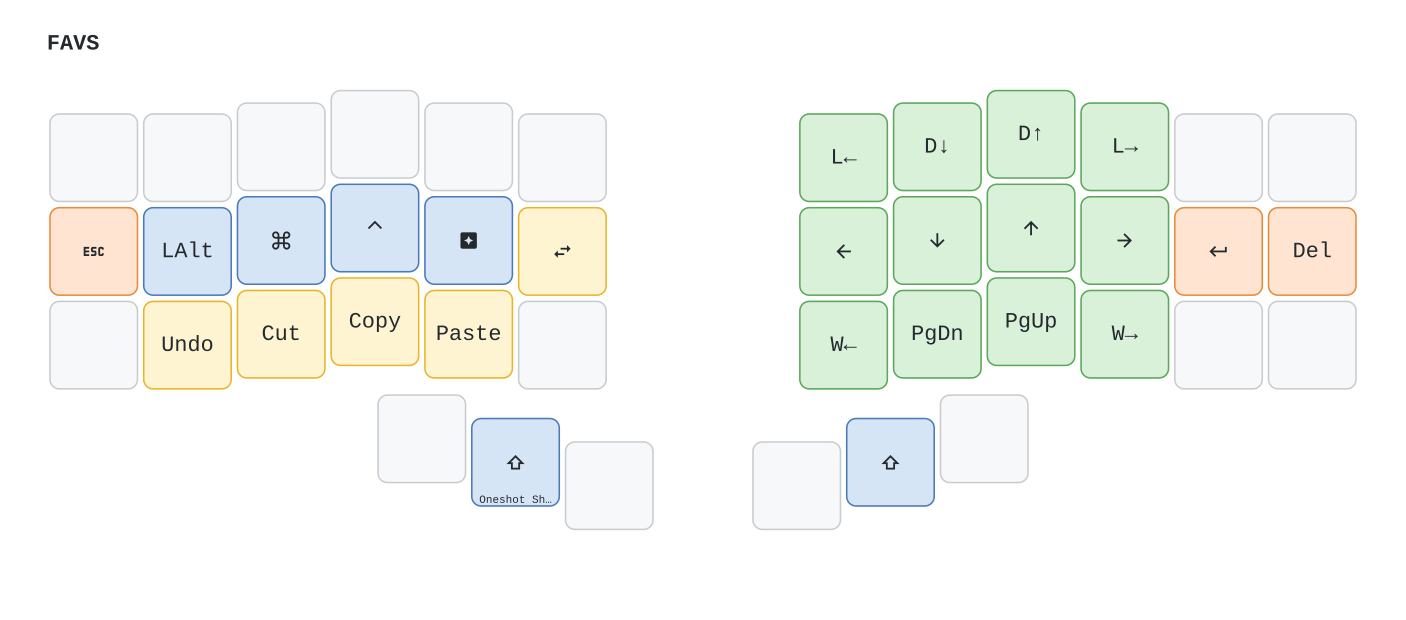
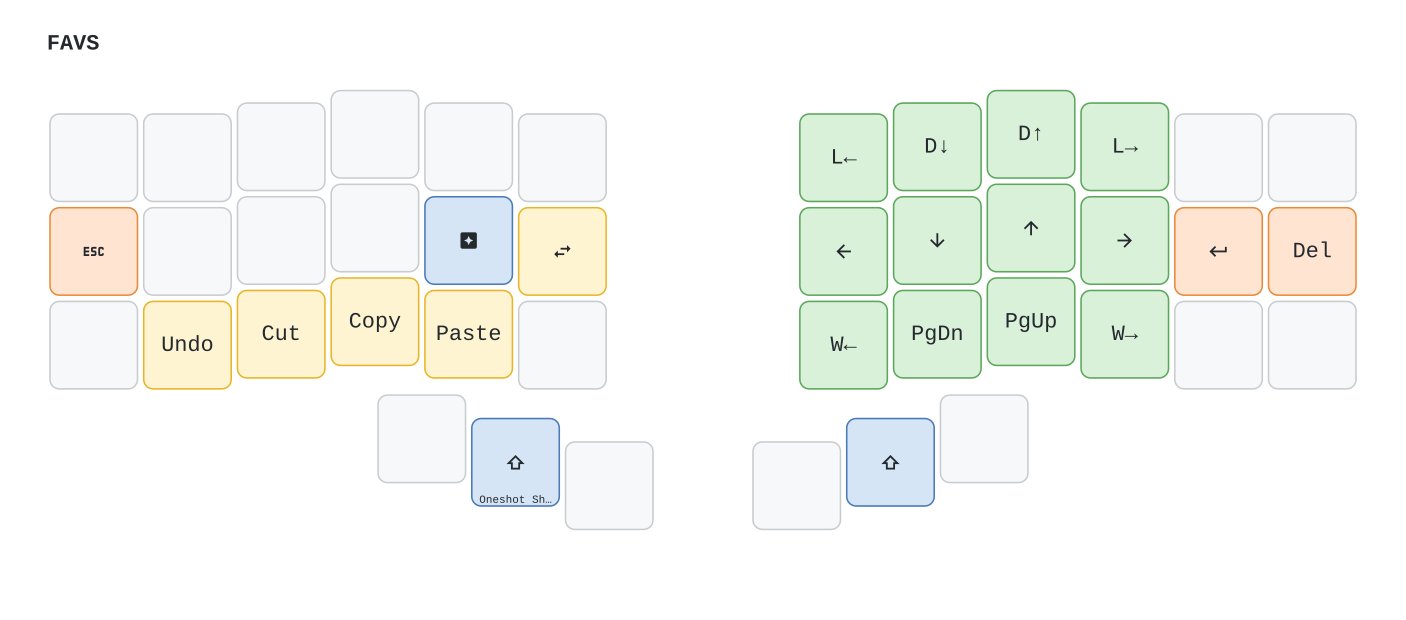
Introduces chordal hold

Changed region(s): [[0.0917, 0.2758, 0.3058, 0.4903]]

diff --git a/keyboards/6x3_3/keymaps/crafted/keymap.c b/keyboards/6x3_3/keymaps/crafted/keymap.c
@@ -75,10 +75,10 @@ enum combo_events {
 };
 
 const uint16_t PROGMEM boot_combo[] = {KC_TAB, KC_BSPC, COMBO_END};  // Tab + Backspace
-const uint16_t PROGMEM switch_os[] = {_04_, _28_, COMBO_END};  // Left hand: toggle OS and mod morph
-const uint16_t PROGMEM print_os[] = {_03_, _28_, _04_, COMBO_END};  // Left hand: print OS name
-const uint16_t PROGMEM switch_layout[] = {_07_, _31_, COMBO_END};  // Right hand mirror: toggle default layout
-const uint16_t PROGMEM print_layout[] = {_08_, _31_, _07_, COMBO_END};  // Right hand mirror: print layout name
+const uint16_t PROGMEM switch_os[] = {_04_, LCTL_T(_28_), COMBO_END};  // Left hand: toggle OS and mod morph
+const uint16_t PROGMEM print_os[] = {_03_, LCTL_T(_28_), _04_, COMBO_END};  // Left hand: print OS name
+const uint16_t PROGMEM switch_layout[] = {_07_, RCTL_T(_31_), COMBO_END};  // Right hand mirror: toggle default layout
+const uint16_t PROGMEM print_layout[] = {_08_, RCTL_T(_31_), _07_, COMBO_END};  // Right hand mirror: print layout name
 
 combo_t key_combos[] = {
     COMBO_ACTION(switch_os),     // COMBO_SWITCH_OS
@@ -107,8 +107,7 @@ static const uint16_t wc_keycodes[][4] = {
 const key_override_t* key_overrides[] = {
 #ifdef XC_ALT_BASE_SYMBOLS
     ALT_SYMBOL_OVERRIDE(AS_QUOT, KC_QUOT, KC_DQUO), // ' → "
-    ALT_SYMBOL_OVERRIDE(AS_COMM, KC_COMM, KC_QUES), // , → ?
-    ALT_SYMBOL_OVERRIDE(AS_DOT,  KC_DOT,  KC_EXLM), // . → !
+    // AS_COMM (,→?) and AS_DOT (.→!) handled in process_record_user for mod-tap keys
     ALT_SYMBOL_OVERRIDE(AS_MINS, KC_MINS, KC_SLSH), // - → /
     ALT_SYMBOL_OVERRIDE(AS_UNDS, KC_UNDS, KC_PIPE), // _ → |
 #endif
@@ -132,6 +131,15 @@ const key_override_t* key_overrides[] = {
     NULL
 };
 
+// Chordal Hold handedness: 'L'=left, 'R'=right, '*'=exempt (thumbs)
+const char chordal_hold_layout[MATRIX_ROWS][MATRIX_COLS] PROGMEM =
+    LAYOUT_split_3x6_3(
+        'L', 'L', 'L', 'L', 'L', 'L',  'R', 'R', 'R', 'R', 'R', 'R',
+        'L', 'L', 'L', 'L', 'L', 'L',  'R', 'R', 'R', 'R', 'R', 'R',
+        'L', 'L', 'L', 'L', 'L', 'L',  'R', 'R', 'R', 'R', 'R', 'R',
+                       '*', '*', '*',  '*', '*', '*'
+    );
+
 const uint16_t PROGMEM keymaps[][MATRIX_ROWS][MATRIX_COLS] = {
      /*
       * ┌───┬───┬───┬───┬───┬───┐       ┌───┬───┬───┬───┬───┬───┐
@@ -139,13 +147,15 @@ const uint16_t PROGMEM keymaps[][MATRIX_ROWS][MATRIX_COLS] = {
       * ├───┼───┼───┼───┼───┼───┤       ├───┼───┼───┼───┼───┼───┤
       * │Tab│ A │ S │ D │ F │ G │       │ H │ J │ K │ L │ ; │Bsp│
       * ├───┼───┼───┼───┼───┼───┤       ├───┼───┼───┼───┼───┼───┤
-      * │   │ Z │ X │ C[B]V │[B]│       │[N]│ M[N], │ . │ / │   │
+      * │   │ Z │X/A│C/G│V/C│[B]│       │[N]│M/C│,/G│./A│ / │   │
       * └───┴───┴───┴───┴───┴───┘       └───┴───┴───┴───┴───┴───┘
       *               ┌───┐                   ┌───┐
       *               │   ├───┐           ┌───┤   │
       *               └───┤S/L├───┐   ┌───┤SPC├───┘
       *                   └───┤FAV│   │SYM├───┘       FAV=FAVS layer, SYM=SYMBOLS layer, S/L=Shift/Leader
       *                       └───┘   └───┘
+      * Bottom-row mod-taps: X/A=Alt, C/G=GUI, V/C=Ctrl | M/C=Ctrl, ,/G=GUI, ./A=Alt
+      * Chordal Hold: opposite-hands rule prevents same-hand roll misfires
       * Weak corners: [Q] [P] [B] [N] - only when XC_WEAK_CORNERS enabled, else actual keys
       * Combos: W+E→Q I+O→P C+V→B M+,→N (when weak corners on), Tab+Bsp→QK_BOOT
       * S/L=SFT_LEAD: Hold for Shift, Tap for Leader
@@ -153,7 +163,7 @@ const uint16_t PROGMEM keymaps[][MATRIX_ROWS][MATRIX_COLS] = {
     [BASE] = LAYOUT_split_3x6_3(
         KC_NO,    _01_,    _02_,    _03_,    _04_,    _05_,                               _06_,    _07_,    _08_,    _09_,    _10_,    KC_NO,
         KC_TAB,  _13_,    _14_,    _15_,    _16_,    _17_,                               _18_,    _19_,    _20_,    _21_,    _22_,    KC_BSPC,
-        KC_NO,   _25_,    _26_,    _27_,    _28_,    _29_,                               _30_,    _31_,    _32_,    _33_,    _34_,    KC_NO,
+        KC_NO,   _25_,    LALT_T(_26_), LGUI_T(_27_), LCTL_T(_28_), _29_,               _30_,    RCTL_T(_31_), RGUI_T(_32_KC), RALT_T(_33_KC), _34_, KC_NO,
                                             KC_NO,   SFT_LEAD, MO(FAVS),               MO(SYMBOLS), KC_SPC,  KC_NO
     ),
      /*
@@ -165,15 +175,15 @@ const uint16_t PROGMEM keymaps[][MATRIX_ROWS][MATRIX_COLS] = {
     [BASE_ALT] = LAYOUT_split_3x6_3(
         KC_NO,   _01_,    _02_,    _03_,    _04_,    _05_,                               _06_,    _07_,    _08_,    _09_,    _10_,    KC_NO,
         KC_TAB,  _13_,    _14_,    _15_,    _16_,    _17_,                               _18_,    _19_,    _20_,    _21_,    _22_,    KC_BSPC,
-        KC_NO,   _25_,    _26_,    _27_,    _28_,    _29_,                               _30_,    _31_,    _32_,    _33_,    _34_,    KC_NO,
+        KC_NO,   _25_,    LALT_T(_26_), LGUI_T(_27_), LCTL_T(_28_), _29_,               _30_,    RCTL_T(_31_), RGUI_T(_32_KC), RALT_T(_33_KC), _34_, KC_NO,
                                             KC_NO,   SFT_LEAD, MO(FAVS),               MO(SYMBOLS), KC_SPC,  KC_NO
     ),
      /*
-      * FAVS Layer (Layer 2) - Favorite shortcuts, modifiers and navigation
+      * FAVS Layer (Layer 2) - Favorite shortcuts and navigation
       * ┌───┬───┬───┬───┬───┬───┐       ┌───┬───┬───┬───┬───┬───┐
       * │   │   │   │   │   │   │       │L← │D↓ │D↑ │L→ │   │   │
       * ├───┼───┼───┼───┼───┼───┤       ├───┼───┼───┼───┼───┼───┤
-      * │Esc│Alt│Gui│Ctl│G/C│SWn│       │ ← │ ↓ │ ↑ │ → │Ent│Del│
+      * │Esc│ ▽ │ ▽ │ ▽ │G/C│SWn│       │ ← │ ↓ │ ↑ │ → │Ent│Del│
       * ├───┼───┼───┼───┼───┼───┤       ├───┼───┼───┼───┼───┼───┤
       * │   │Udo│Cut│Cpy│Pst│   │       │W← │PgD│PgU│W→ │   │   │
       * └───┴───┴───┴───┴───┴───┘       └───┴───┴───┴───┴───┴───┘
@@ -182,14 +192,14 @@ const uint16_t PROGMEM keymaps[][MATRIX_ROWS][MATRIX_COLS] = {
       *               └───┤OSf├───┐   ┌───┤Sft├───┘
       *                   └───┤   │   │   ├───┘
       *                       └───┘   └───┘
+      * ▽=transparent (BASE layer keys pass through)
       * G/C=MM_GUICTRL (morphing GUI/Ctrl), SWn=Switch Window, OSf=Oneshot Shift
       * L←=Line Begin, L→=Line End, D↑=Doc Begin, D↓=Doc End
       * W←=Word Left, W→=Word Right
-      * Alt/Gui/Ctl are oneshot modifiers
       */
     [FAVS] = LAYOUT_split_3x6_3(
         KC_NO,   KC_NO,   KC_NO,   KC_NO,   KC_NO,   KC_NO,                              SK_LINEBEG, SK_DOCEND, SK_DOCBEG, SK_LINEEND, KC_NO,   KC_NO,
-        KC_ESC,  OS_ALT,  OS_GUI,  OS_CTRL, MM_GUICTRL, SW_WIN,                          KC_LEFT, KC_DOWN, KC_UP,   KC_RGHT, KC_ENT,  KC_DEL,
+        KC_ESC,  KC_TRNS, KC_TRNS, KC_TRNS, MM_GUICTRL, SW_WIN,                          KC_LEFT, KC_DOWN, KC_UP,   KC_RGHT, KC_ENT,  KC_DEL,
         KC_NO,   SK_UNDO, SK_CUT,  SK_COPY, SK_PSTE, KC_NO,                              SK_WORDPRV, KC_PGDN, KC_PGUP, SK_WORDNXT, KC_NO,   KC_NO,
                                             KC_NO,   OS_SHFT, KC_NO,                  KC_NO,   KC_LSFT, KC_NO
     ),
@@ -223,17 +233,11 @@ const uint16_t PROGMEM keymaps[][MATRIX_ROWS][MATRIX_COLS] = {
 static bool sft_lead_held = false;
 static uint16_t sft_lead_timer = 0;
 
-// Oneshot modifier states
+// Oneshot modifier states (only shift remains; Alt/Ctrl/GUI now on bottom-row mod-taps)
 oneshot_state os_shft_state = os_up_unqueued;
-oneshot_state os_ctrl_state = os_up_unqueued;
-oneshot_state os_alt_state = os_up_unqueued;
-oneshot_state os_gui_state = os_up_unqueued;
 
 // Oneshot modifier timers (for auto-cancel after timeout)
 static uint16_t os_shft_timer = 0;
-static uint16_t os_ctrl_timer = 0;
-static uint16_t os_alt_timer  = 0;
-static uint16_t os_gui_timer  = 0;
 
 // Swapper state
 static bool sw_win_active = false;
@@ -252,11 +256,8 @@ bool process_record_user(uint16_t keycode, keyrecord_t *record) {
     // Update swapper
     update_swapper(&sw_win_active, KC_LGUI, KC_TAB, SW_WIN, keycode, record);
 
-    // Update oneshot modifiers
+    // Update oneshot shift (Alt/Ctrl/GUI now on bottom-row mod-taps with Chordal Hold)
     update_oneshot(&os_shft_state, KC_LSFT, OS_SHFT, keycode, record, &os_shft_timer);
-    update_oneshot(&os_ctrl_state, KC_LCTL, OS_CTRL, keycode, record, &os_ctrl_timer);
-    update_oneshot(&os_alt_state, KC_LALT, OS_ALT, keycode, record, &os_alt_timer);
-    update_oneshot(&os_gui_state, KC_LGUI, OS_GUI, keycode, record, &os_gui_timer);
 
     // Update oneshot morphing modifier
     update_mod_morph_oneshot(MM_GUICTRL, keycode, record);
@@ -276,6 +277,23 @@ bool process_record_user(uint16_t keycode, keyrecord_t *record) {
                 sft_lead_held = false;
             }
             return false;
+
+#ifdef XC_ALT_BASE_SYMBOLS
+        // Alt-symbol shifted behavior for mod-tap keys (positions 32-33)
+        // Mod-tap uses basic keycodes; custom shift handled here instead of key overrides
+        case RGUI_T(KC_COMM):  // , → ? when shifted
+        case RALT_T(KC_DOT):   // . → ! when shifted
+            if (record->tap.count && record->event.pressed) {
+                uint8_t mods = get_mods() | get_oneshot_mods();
+                if (mods & MOD_MASK_SHIFT) {
+                    unregister_mods(MOD_MASK_SHIFT);
+                    tap_code16(keycode == RGUI_T(KC_COMM) ? KC_QUES : KC_EXLM);
+                    register_mods(mods & MOD_MASK_SHIFT);
+                    return false;
+                }
+            }
+            break;
+#endif
     }
     return true;
 }
@@ -294,9 +312,6 @@ bool is_oneshot_cancel_key(uint16_t keycode) {
 bool is_oneshot_ignored_key(uint16_t keycode) {
     switch (keycode) {
         case OS_SHFT:
-        case OS_CTRL:
-        case OS_ALT:
-        case OS_GUI:
         case MM_GUICTRL:
         case KC_LSFT:
         case KC_RSFT:
@@ -376,9 +391,6 @@ void process_combo_event(uint16_t combo_index, bool pressed) {
 #if ONESHOT_MOD_TIMEOUT > 0
 void matrix_scan_user(void) {
     check_oneshot_timeout(&os_shft_state, KC_LSFT, &os_shft_timer);
-    check_oneshot_timeout(&os_ctrl_state, KC_LCTL, &os_ctrl_timer);
-    check_oneshot_timeout(&os_alt_state, KC_LALT, &os_alt_timer);
-    check_oneshot_timeout(&os_gui_state, KC_LGUI, &os_gui_timer);
     check_mod_morph_timeout();
 }
 #endif

diff --git a/keyboards/6x3_3/keymaps/crafted/config.h b/keyboards/6x3_3/keymaps/crafted/config.h
@@ -3,15 +3,16 @@
 
 #pragma once
 
-// Callum style mods - faster, more responsive home row mods
+// Tap-hold tuning for bottom-row mod-taps + Chordal Hold
 #undef TAPPING_TERM
-#define TAPPING_TERM 200
+#define TAPPING_TERM 240
 
-// Callum style: IGNORE_MOD_TAP_INTERRUPT is now default behavior in QMK
-// No PERMISSIVE_HOLD - this is the key difference from aggressive settings
+// Chordal Hold: opposite-hands rule for mod-tap keys (QMK Feb 2025)
+#define CHORDAL_HOLD
+#define PERMISSIVE_HOLD
 
-// Per-key hold on other key press for layers only (not for home row mods)
-#define HOLD_ON_OTHER_KEY_PRESS_PER_KEY
+// Flow Tap: disable hold during fast typing bursts (QMK May 2025)
+#define FLOW_TAP_TERM 150
 
 // Callum-style oneshot mod timeout (ms) - auto-cancel queued mods after delay
 #define ONESHOT_MOD_TIMEOUT 2000

diff --git a/keyboards/6x3_3/keymaps/crafted/layouts/focal.h b/keyboards/6x3_3/keymaps/crafted/layouts/focal.h
@@ -18,6 +18,15 @@
     #define _34_ KC_COMM             // , / <
 #endif
 
+// Base keycodes for mod-tap positions (bypass custom alt-symbol keycodes)
+#ifdef XC_ALT_BASE_SYMBOLS
+    #define _32_KC KC_COMM
+    #define _33_KC KC_DOT
+#else
+    #define _32_KC _32_
+    #define _33_KC _33_
+#endif
+
 #ifdef XC_WEAK_CORNERS
     #define WC_OUT_01 KC_B
     #define WC_OUT_10 KC_J

diff --git a/keyboards/6x3_3/keymaps/crafted/layouts/gallium.h b/keyboards/6x3_3/keymaps/crafted/layouts/gallium.h
@@ -18,6 +18,15 @@
     #define _34_ KC_SLSH             // / / ?
 #endif
 
+// Base keycodes for mod-tap positions (bypass custom alt-symbol keycodes)
+#ifdef XC_ALT_BASE_SYMBOLS
+    #define _32_KC KC_COMM
+    #define _33_KC KC_DOT
+#else
+    #define _32_KC _32_
+    #define _33_KC _33_
+#endif
+
 #ifdef XC_WEAK_CORNERS
     #define WC_OUT_01 KC_B
     #define WC_OUT_10 KC_COMM

diff --git a/keyboards/6x3_3/keymaps/crafted/layouts/gallium_east.h b/keyboards/6x3_3/keymaps/crafted/layouts/gallium_east.h
@@ -18,6 +18,15 @@
     #define _34_ KC_SLSH             // / / ?
 #endif
 
+// Base keycodes for mod-tap positions (bypass custom alt-symbol keycodes)
+#ifdef XC_ALT_BASE_SYMBOLS
+    #define _32_KC KC_COMM
+    #define _33_KC KC_DOT
+#else
+    #define _32_KC _32_
+    #define _33_KC _33_
+#endif
+
 #ifdef XC_WEAK_CORNERS
     #define WC_OUT_01 KC_B
     #define WC_OUT_10 KC_QUOT

diff --git a/keyboards/6x3_3/keymaps/crafted/layouts/graphite.h b/keyboards/6x3_3/keymaps/crafted/layouts/graphite.h
@@ -17,6 +17,15 @@
     #define _34_ KC_SLSH             // / / ?
 #endif
 
+// Base keycodes for mod-tap positions (bypass custom alt-symbol keycodes)
+#ifdef XC_ALT_BASE_SYMBOLS
+    #define _32_KC KC_COMM
+    #define _33_KC KC_DOT
+#else
+    #define _32_KC _32_
+    #define _33_KC _33_
+#endif
+
 #ifdef XC_WEAK_CORNERS
     #define WC_OUT_01 KC_B
     #define WC_OUT_10 KC_J

diff --git a/keyboards/6x3_3/keymaps/crafted/layouts/qwerty.h b/keyboards/6x3_3/keymaps/crafted/layouts/qwerty.h
@@ -17,6 +17,15 @@
     #define _34_ KC_SLSH             // / / ?
 #endif
 
+// Base keycodes for mod-tap positions (bypass custom alt-symbol keycodes)
+#ifdef XC_ALT_BASE_SYMBOLS
+    #define _32_KC KC_COMM
+    #define _33_KC KC_DOT
+#else
+    #define _32_KC _32_
+    #define _33_KC _33_
+#endif
+
 #ifdef XC_WEAK_CORNERS
     #define WC_OUT_01 KC_Q
     #define WC_OUT_10 KC_P

diff --git a/keyboards/6x3_3/keymaps/crafted/layouts/radial.h b/keyboards/6x3_3/keymaps/crafted/layouts/radial.h
@@ -16,6 +16,15 @@
     #define _34_ KC_QUOT             // ' / "
 #endif
 
+// Base keycodes for mod-tap positions (bypass custom alt-symbol keycodes)
+#ifdef XC_ALT_BASE_SYMBOLS
+    #define _32_KC KC_COMM
+    #define _33_KC KC_DOT
+#else
+    #define _32_KC _32_
+    #define _33_KC _33_
+#endif
+
 #ifdef XC_WEAK_CORNERS
     #define WC_OUT_01 KC_X
     #define WC_OUT_10 KC_Y

diff --git a/keyboards/6x3_3/keymaps/crafted/feature_layout_switch.h b/keyboards/6x3_3/keymaps/crafted/feature_layout_switch.h
@@ -50,6 +50,10 @@
 #undef _40_
 #undef _41_
 
+// Step 1b: Clear mod-tap base keycode macros
+#undef _32_KC
+#undef _33_KC
+
 // Step 2: Clear WC_OUT_* (layout files define these when XC_WEAK_CORNERS is set)
 #undef WC_OUT_01
 #undef WC_OUT_10

diff --git a/keyboards/6x3_3/keymaps/crafted/feature_weak_corners.h b/keyboards/6x3_3/keymaps/crafted/feature_weak_corners.h
@@ -23,8 +23,8 @@
 
     const uint16_t PROGMEM weak_corner_l_tl_combo[] = {_02_, _03_, COMBO_END};  // → TL corner
     const uint16_t PROGMEM weak_corner_r_tr_combo[] = {_08_, _09_, COMBO_END};  // → TR corner
-    const uint16_t PROGMEM weak_corner_l_br_combo[] = {_27_, _28_, COMBO_END};  // → BL corner
-    const uint16_t PROGMEM weak_corner_r_bl_combo[] = {_31_, _32_, COMBO_END};  // → BR corner
+    const uint16_t PROGMEM weak_corner_l_br_combo[] = {LGUI_T(_27_), LCTL_T(_28_), COMBO_END};  // → BL corner
+    const uint16_t PROGMEM weak_corner_r_bl_combo[] = {RCTL_T(_31_), RGUI_T(_32_KC), COMBO_END};  // → BR corner
 
     // COMBO_ACTION: output resolved at runtime via wc_keycodes table in keymap.c
     #define XC_WEAK_CORNERS_COMBOS \